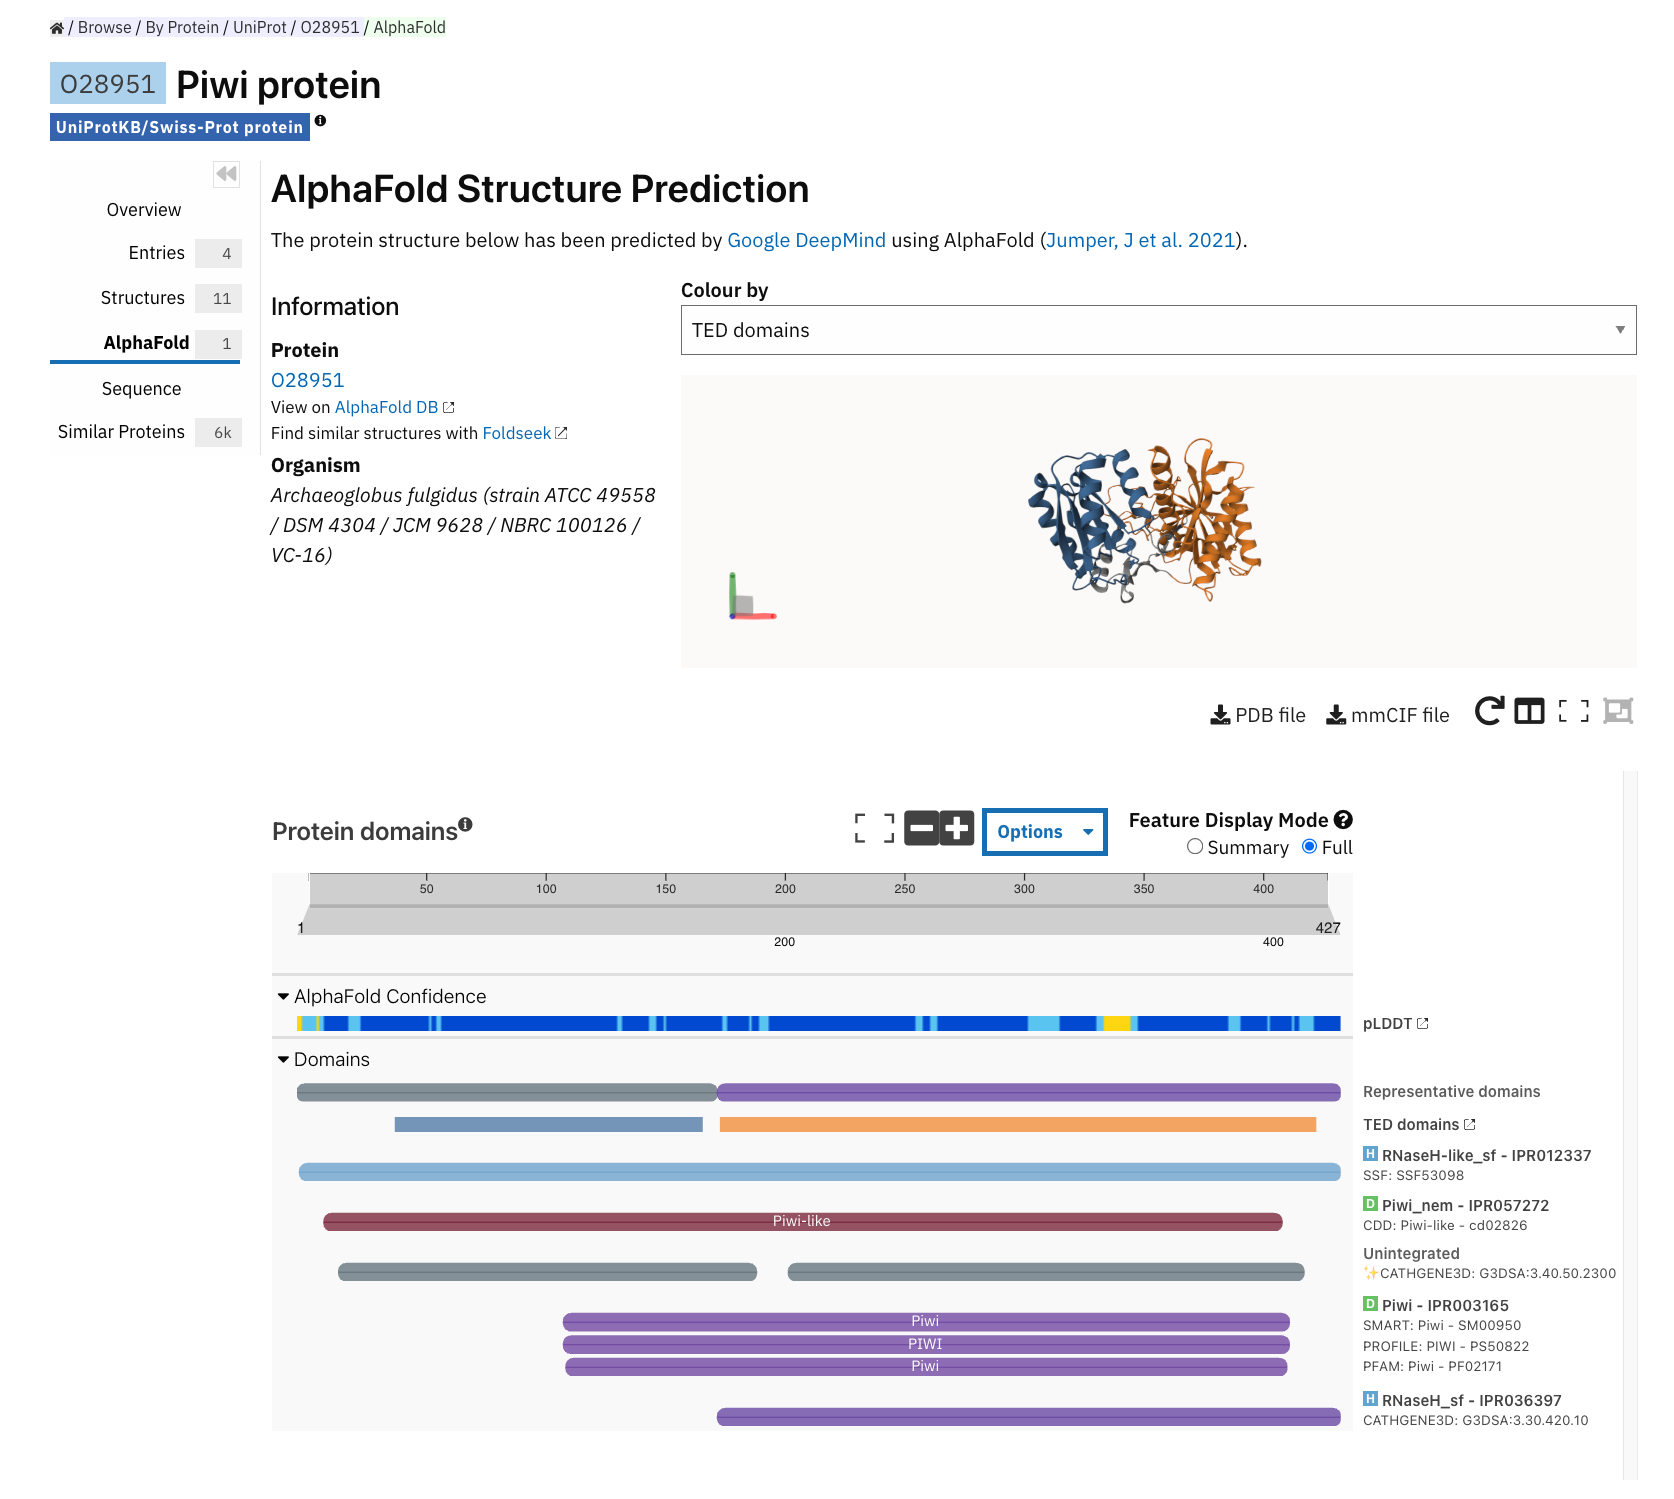
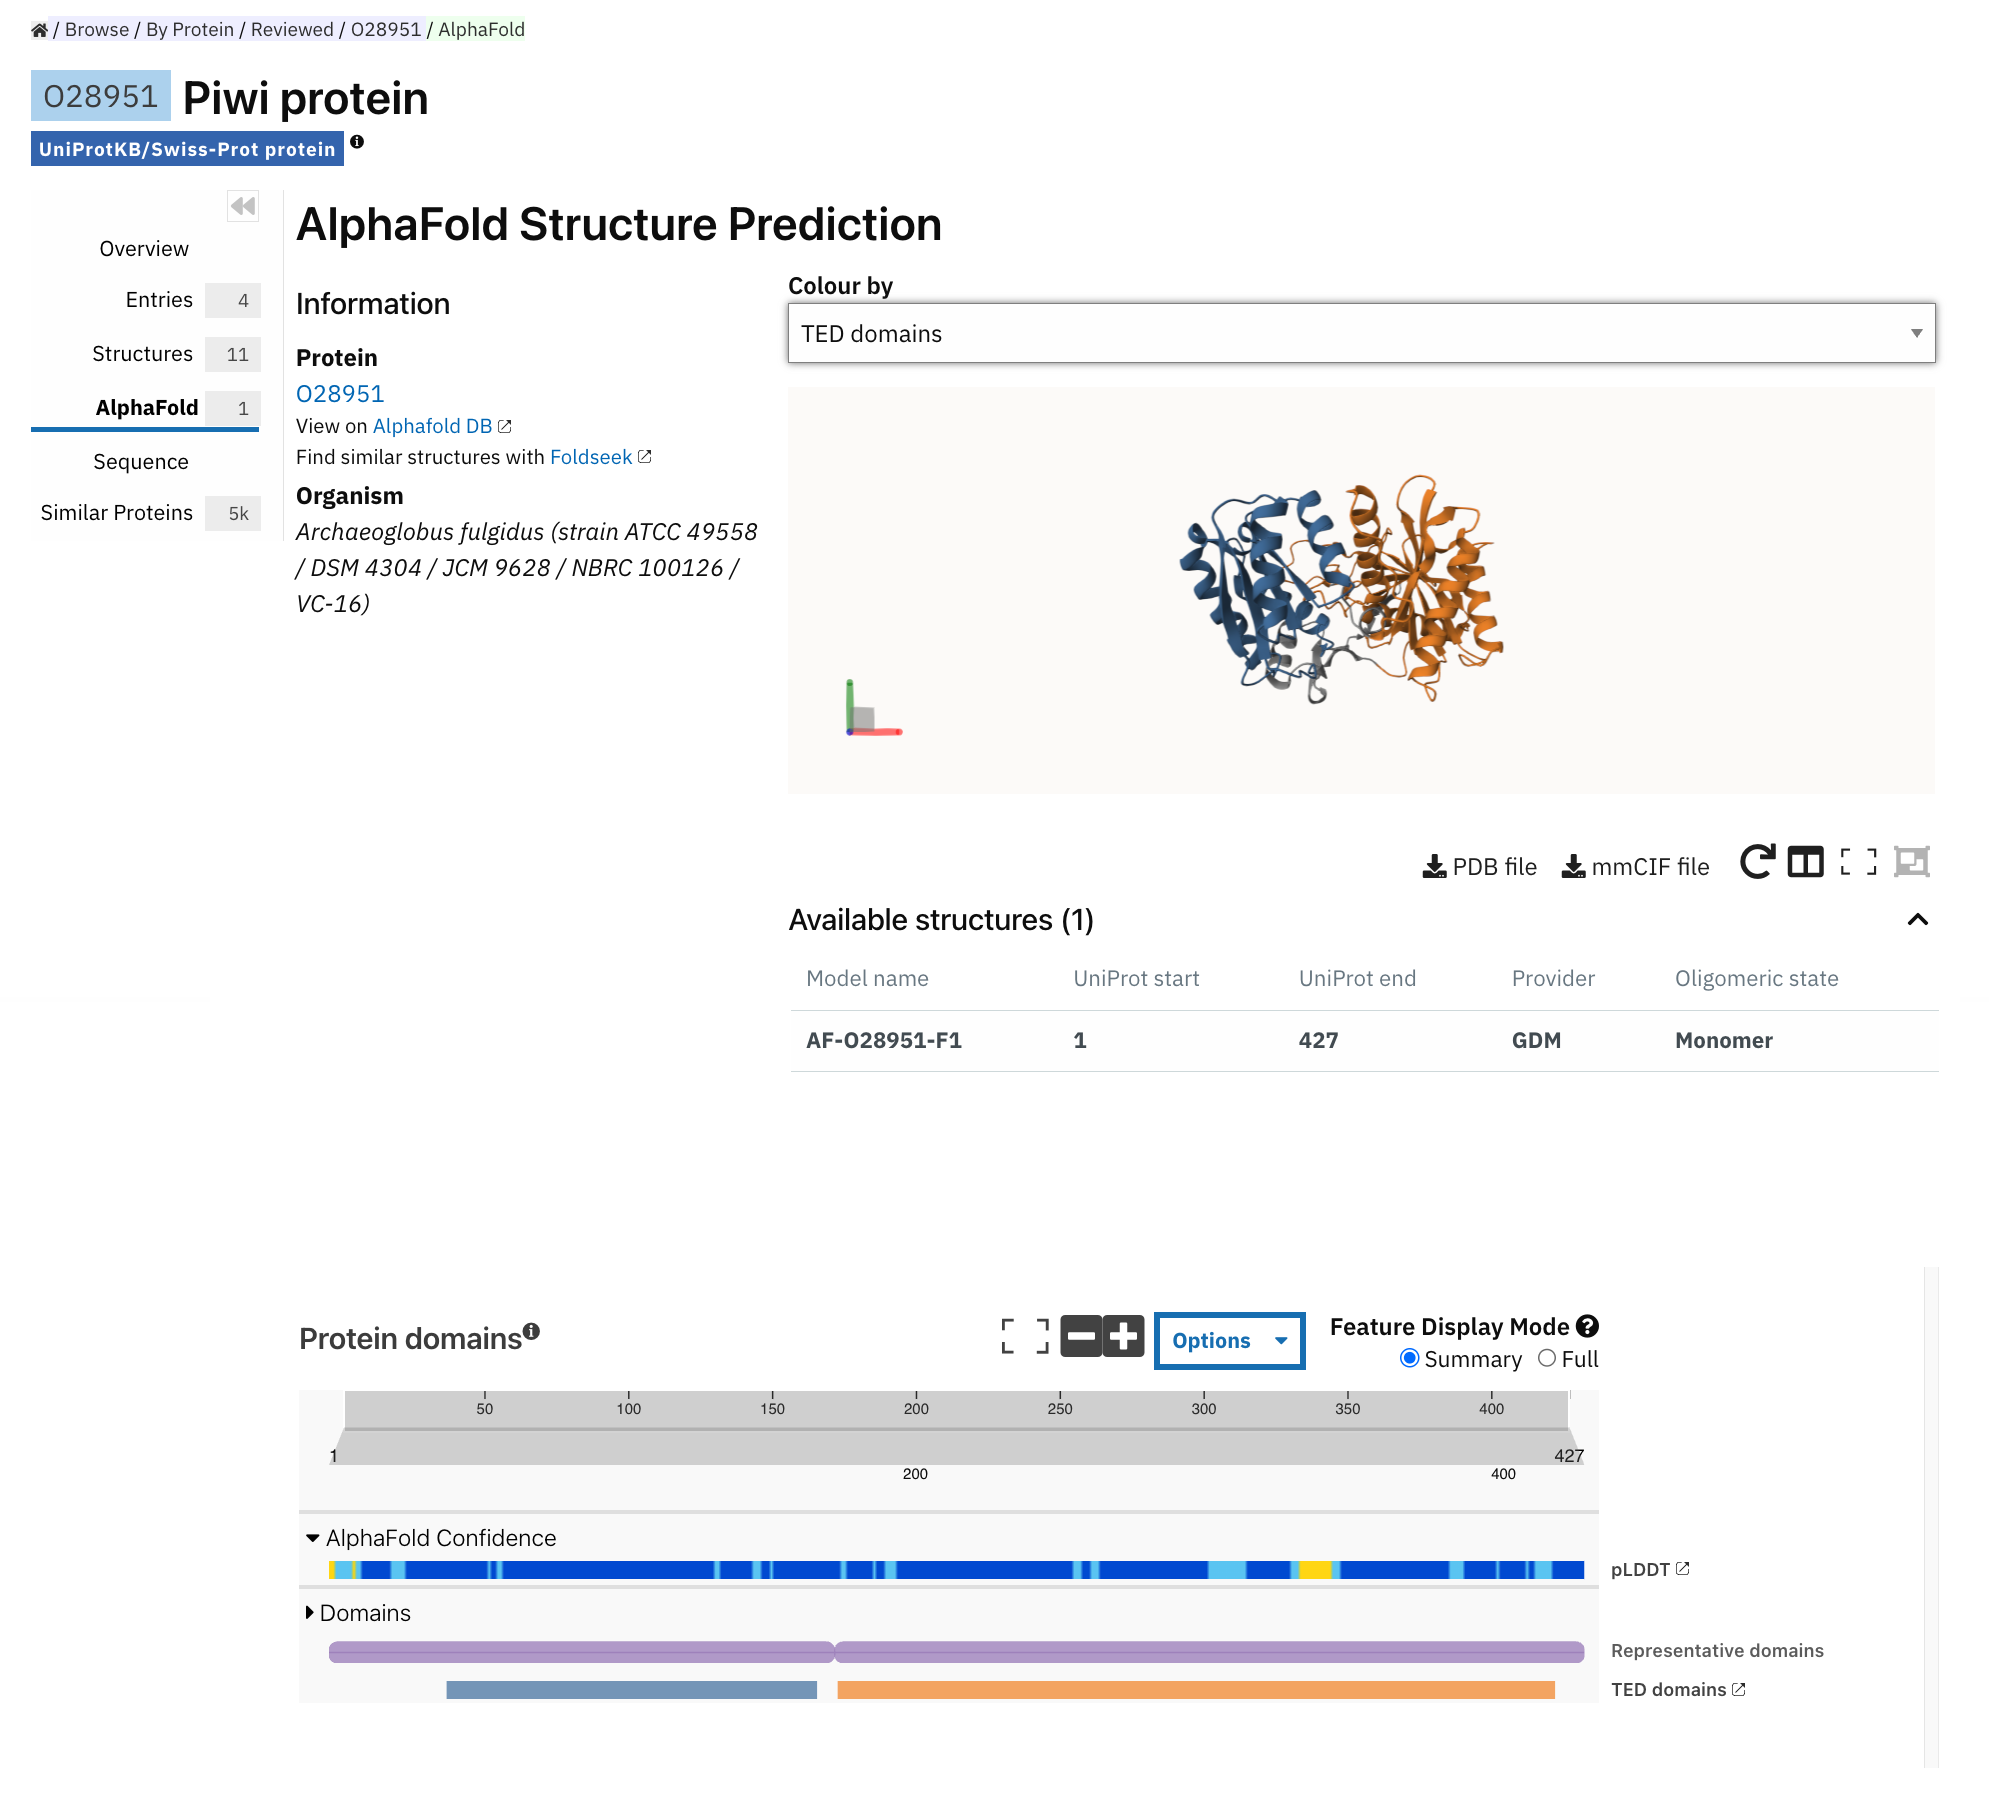
InterPro 109.0 updates

diff --git a/docs/pfam-entry.rst b/docs/pfam-entry.rst
@@ -175,7 +175,14 @@ AlphaFold
 =========
 
 Many of the proteins found in the Pfam entry may have a predicted structure generated by `AlphaFoldDB <https://alphafold.ebi.ac.uk/>`_. 
-A list of all the predicted structures available in AlphaFoldDB for the proteins belonging to this entry is displayed in this tab. 
+At the top of the page a 3D viewer (powered by `Mol* <https://molstar.org/>`_) shows an interactive view 
+of the predicted structure for one of the proteins matching the InterPro entry.
+The structure is coloured by per-residue plDDT score, it can be zoomed in and out, and rotated. 
+Clicking on a residue induces a zoom in effect and displays contacts with surrounding residues, clicking on the blank area 
+around the structure zooms out.
+Immediately below the protein structure viewer, a table shows the available 
+multimers (monomers -default-, homodimers and heterodimers) that can be chosen for display.
+Finally, a table with a list of all the predicted structures available in AlphaFoldDB for the proteins belonging to this entry is displayed. 
 For each protein in the list, its Uniprot accession, name, the species it belongs to, its length, and a button that allows you to show 
 the predicted structure of this protein in the structure viewer are displayed.
 
@@ -198,26 +205,6 @@ families or the representative domains.
   :align: left
 
   Example of an InterPro Protein entry page with the **AlphaFold** tab selected (`O28951 <https://www.ebi.ac.uk/interpro/protein/reviewed/O28951/alphafold/>`_).
-
-
-BFVD
-====
-
-When any of the proteins matched by the Pfam model has a structural prediction in `the Big Fantastic Virus Database (BFVD) <https://bfvd.foldseek.com/>`_, 
-a list of all the predicted structures available is displayed in this tab. For each protein in the list, its Uniprot accession, 
-name, the species it belongs to, its length, and a button that allows you to show the predicted structure of this protein in the 
-structure viewer are displayed. 
-
-It is also possible to click on the Uniprot accession to go to the InterPro protein page and go to the **BFVD** tab, where the 
-position of the different entries in the 3D structure viewer are displayed by clicking on the bar corresponding to the entry match in 
-the protein sequence viewer.
-
-.. figure:: images/pfam_page/BFVD.png
-  :alt: Example of a Pfam entry with the BFVD tab selected.
-  :width: 700
-  :align: left
-
-  Example of a Pfam entry page (`PF00721 <https://www.ebi.ac.uk/interpro/entry/pfam/PF00721/bfvd/#table>`_) with the **BFVD** tab selected.
 
 .. _pfalign:
 
